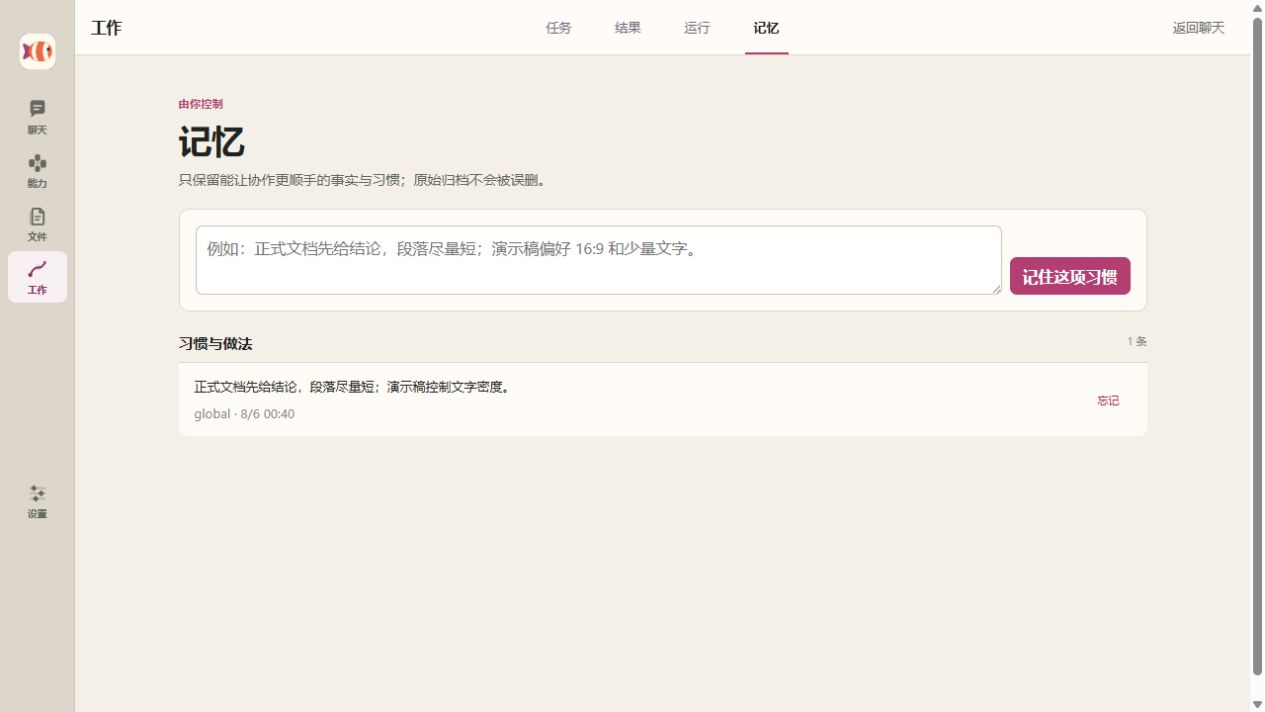
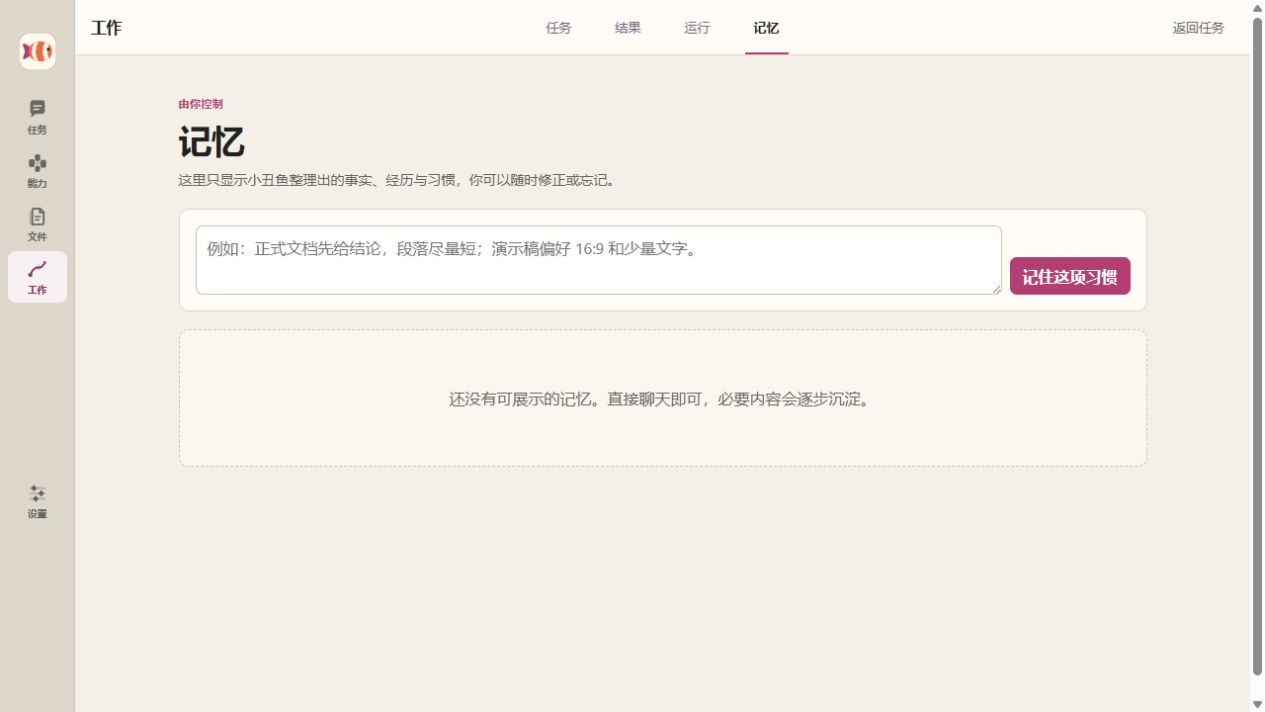
docs: refresh README and product screenshots

diff --git a/README.md b/README.md
@@ -2,7 +2,7 @@
 
 **中文** · [English](README.en.md)
 
-> 一款本机优先、带长期记忆的 AI 工作应用。用户像使用熟悉的对话工具一样新建对话，再按需要切换为完成任务或学习辅导；系统会自动调用能力、处理文件并持续保留上下文。
+> 一款本机优先、带长期记忆的 AI 工作应用。从一条新对话开始，按需要完成任务或进入学习辅导；复杂工作可以继续交给能力、文件和工作中心。
 
 ![小丑鱼对话界面](docs/assets/readme/clownfish-chat.jpg)
 
@@ -12,7 +12,7 @@
 
 | 入口 | 用户操作 | 当前实现 |
 |---|---|---|
-| **对话** | 直接新建、搜索、切换或删除独立对话，需要时切换为完成任务或学习辅导，并可上传图片、文件或发送语音 | 内容自动命名、多任务并行、独立上下文、结果回到原对话 |
+| **对话** | 直接新建、搜索、切换或删除独立对话，需要时切换为完成任务或学习辅导，并可上传图片或文件 | 内容自动命名、多任务并行、独立上下文、结果回到原对话 |
 | **能力** | 直接描述目标，或直接选择一种能力 | 后台任务、实时进度、取消与重试、结果预览和下载 |
 | **文件** | 打开 Word、PowerPoint、Excel 或 PDF | 保留原文件、编辑本机工作副本、页内处理和版本记录 |
 | **工作** | 查看任务、结果、运行和记忆 | 计划任务、交付物、运行记录、习惯管理 |
@@ -74,6 +74,19 @@
 
 ![小丑鱼办公文件页](docs/assets/readme/clownfish-office.jpg)
 
+## 工作：持续任务和交付物集中管理
+
+需要反复执行或在后台推进的事情会进入工作中心：
+
+- **任务**保存目标、计划、当前进展和下一步；
+- **结果**集中查看能力生成的文件和报告；
+- **运行**保留每次执行的状态、日志和错误信息；
+- **记忆**管理小丑鱼整理出的事实、经历与习惯。
+
+新用户仍可直接从对话开始，不需要先理解“项目”或“工作流”。
+
+![小丑鱼工作页](docs/assets/readme/clownfish-work.jpg)
+
 ## 记忆：少量、可见、由用户控制
 
 小丑鱼使用同仓库的 Nemos Memory SDK 保存长期记忆。当前应用中的实际规则是：
@@ -94,22 +107,29 @@
 
 ## 通用模型连接
 
-在 **设置 → 模型连接** 中选择服务商、模型名称和 API Key。系统会先验证连接，再保存配置。
+打开 **模型连接** 面板后，选择服务商、模型名称并填写 API Key。系统会先验证连接，再保存配置。
 
-小丑鱼会按服务商预设分配模型：支持独立日常对话模型的服务会自动分流，专家、能力、文件生成和复杂任务使用这里配置的任务模型；没有独立分流时，两类任务使用同一个模型。也可以在单个对话的设置中手动指定模型。
+小丑鱼会按服务商预设分配模型：支持独立日常对话模型的服务会自动分流，专家、能力、文件生成和复杂任务使用这里配置的任务模型；没有独立分流时，两类任务使用同一个模型。
 
 ![小丑鱼模型连接](docs/assets/readme/clownfish-model-connection.jpg)
 
-当前预设包括智谱 GLM、OpenAI、Anthropic Claude、DeepSeek、通义千问、MiniMax 和自定义服务，支持 OpenAI 兼容与 Anthropic 兼容协议。识图、联网、语音和向量能力取决于所选服务与模型。
+当前预设包括智谱 GLM、OpenAI、Anthropic Claude、DeepSeek、通义千问、MiniMax 和自定义服务，支持 OpenAI 兼容与 Anthropic 兼容协议。识图、联网和向量能力取决于所选服务与模型。
 
 Windows 下，密钥使用当前用户的 DPAPI 加密并保存在本机；接口不会回显完整密钥。离线模式可以浏览界面、管理本机内容和使用不依赖模型的功能。
 
 ## 数据与隐私边界
 
-- 记忆数据库、任务、运行记录、文件工作副本和交付物默认位于 **~/.clownfish**。
+- 新安装的记忆数据库、任务、运行记录、文件工作副本和交付物默认位于 **~/.clownfish**；检测到旧版 **~/.nemos-companion** 数据时会继续沿用，避免迁移时丢失内容。
 - 调用已配置的模型时，当前请求及必要上下文会发送给该模型服务商；新对话首次发送后还会使用同一服务商的轻量模型生成短标题；打开联网来源时会访问相应公开服务。
 - 本机日志和运行记录会脱敏常见凭证字段，但仍不应把密钥或私人配置写入任务正文。
 - 导出或分享备份与便携包前，应确认其中不包含用户数据目录。
+
+## 当前验证状态
+
+- TypeScript 构建通过；
+- 508 项自动化测试全部通过；
+- 首页、能力、文件、工作、记忆和模型连接已用全新本机数据目录重新截图核对；
+- 最近一次完整真实使用检查见 [2026-08-08 十轮检查报告](sdk/typescript/examples/companion/docs/reviews/2026-08-08-web-true-check-10-rounds.md)。
 
 ## 本地运行
 

diff --git a/README.en.md b/README.en.md
@@ -2,7 +2,7 @@
 
 [中文](README.md) · **English**
 
-> A local-first AI conversation and work application with long-term memory. Start in chat, invoke a capability when needed, work with office files, and review tasks, results, and memory in one product.
+> A local-first AI work application with long-term memory. Start with a new conversation, switch to task completion or guided study when needed, and continue complex work in Capabilities, Files, and Work.
 
 ![Clownfish chat](docs/assets/readme/clownfish-chat.jpg)
 
@@ -60,6 +60,19 @@ The file workspace supports DOCX, PPTX, XLSX, and PDF:
 
 ![Clownfish office workspace](docs/assets/readme/clownfish-office.jpg)
 
+## Work: ongoing tasks and deliverables in one place
+
+Repeated and background work is kept in the Work center:
+
+- **Tasks** retain the goal, plan, current progress, and next action;
+- **Results** collect files and reports created by capabilities;
+- **Runs** preserve execution state, logs, and errors;
+- **Memory** lets the user review facts, experiences, and habits organized by Clownfish.
+
+New users can still begin in a conversation without learning projects or workflow terminology first.
+
+![Clownfish work center](docs/assets/readme/clownfish-work.jpg)
+
 ## Memory: focused, visible, and user-controlled
 
 Clownfish uses the Nemos Memory SDK in this repository. The application currently:
@@ -80,22 +93,29 @@ See the [TypeScript SDK](sdk/typescript/README.en.md) and the [v0.7 implementati
 
 ## Provider-neutral model connection
 
-Choose a provider, model name, and API key under **Settings → Model connection**. Clownfish tests the connection before saving it.
+Open **Model connection**, then choose a provider and model name and enter an API key. Clownfish tests the connection before saving it.
 
-Clownfish follows provider presets when routing models. Providers with a separate daily-chat model use it automatically, while experts, capabilities, file generation, and complex work use the configured task model. When no separate route is defined, both use the same model. A conversation can also override the model explicitly.
+Clownfish follows provider presets when routing models. Providers with a separate daily-chat model use it automatically, while experts, capabilities, file generation, and complex work use the configured task model. When no separate route is defined, both use the same model.
 
 ![Clownfish model connection](docs/assets/readme/clownfish-model-connection.jpg)
 
-Presets are available for Zhipu GLM, OpenAI, Anthropic Claude, DeepSeek, Alibaba Qwen, MiniMax, and custom services. OpenAI-compatible and Anthropic-compatible protocols are supported. Vision, web, voice, and embedding support depends on the selected service and model.
+Presets are available for Zhipu GLM, OpenAI, Anthropic Claude, DeepSeek, Alibaba Qwen, MiniMax, and custom services. OpenAI-compatible and Anthropic-compatible protocols are supported. Vision, web, and embedding support depends on the selected service and model.
 
 On Windows, secrets are encrypted with DPAPI for the current user and full keys are never returned by the API. Offline mode keeps the interface and local-only functions available.
 
 ## Data and privacy boundaries
 
-- Memory, tasks, runs, working copies, and artifacts are stored under **~/.clownfish** by default.
+- New installations store memory, tasks, runs, working copies, and artifacts under **~/.clownfish**. If legacy **~/.nemos-companion** data is detected, Clownfish keeps using it to avoid losing content during migration.
 - When a configured model is called, the request and required context are sent to that provider. After the first message in a new conversation, the same provider's lightweight daily model also receives that message to generate a short title; this title request uses no tools and is not written to long-term memory. Network source features contact their corresponding public services when used.
 - Logs and run records redact common credential fields, but secrets should never be placed in task text.
 - Before exporting or sharing a backup or portable package, check that it does not contain a user data directory.
+
+## Current verification
+
+- The TypeScript build passes;
+- All 508 automated tests pass;
+- Chat, Capabilities, Files, Work, Memory, and Model connection were rechecked and recaptured with a fresh local data directory;
+- See the [2026-08-08 ten-round real-world audit](sdk/typescript/examples/companion/docs/reviews/2026-08-08-web-true-check-10-rounds.md).
 
 ## Run locally
 
